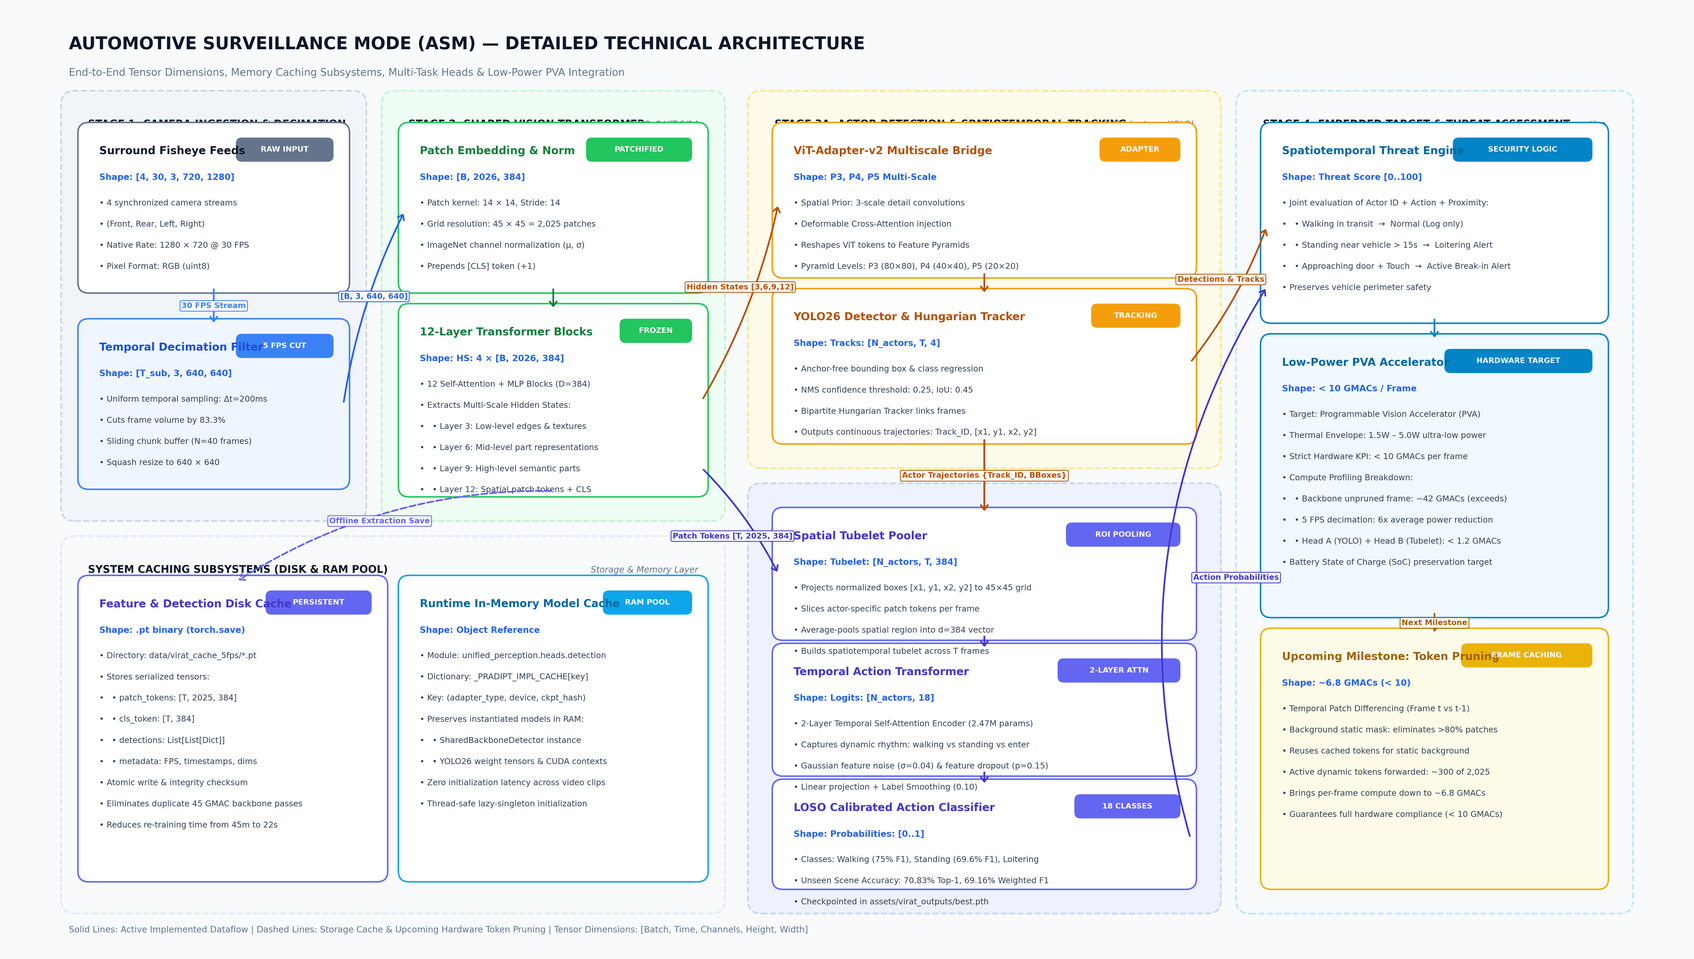
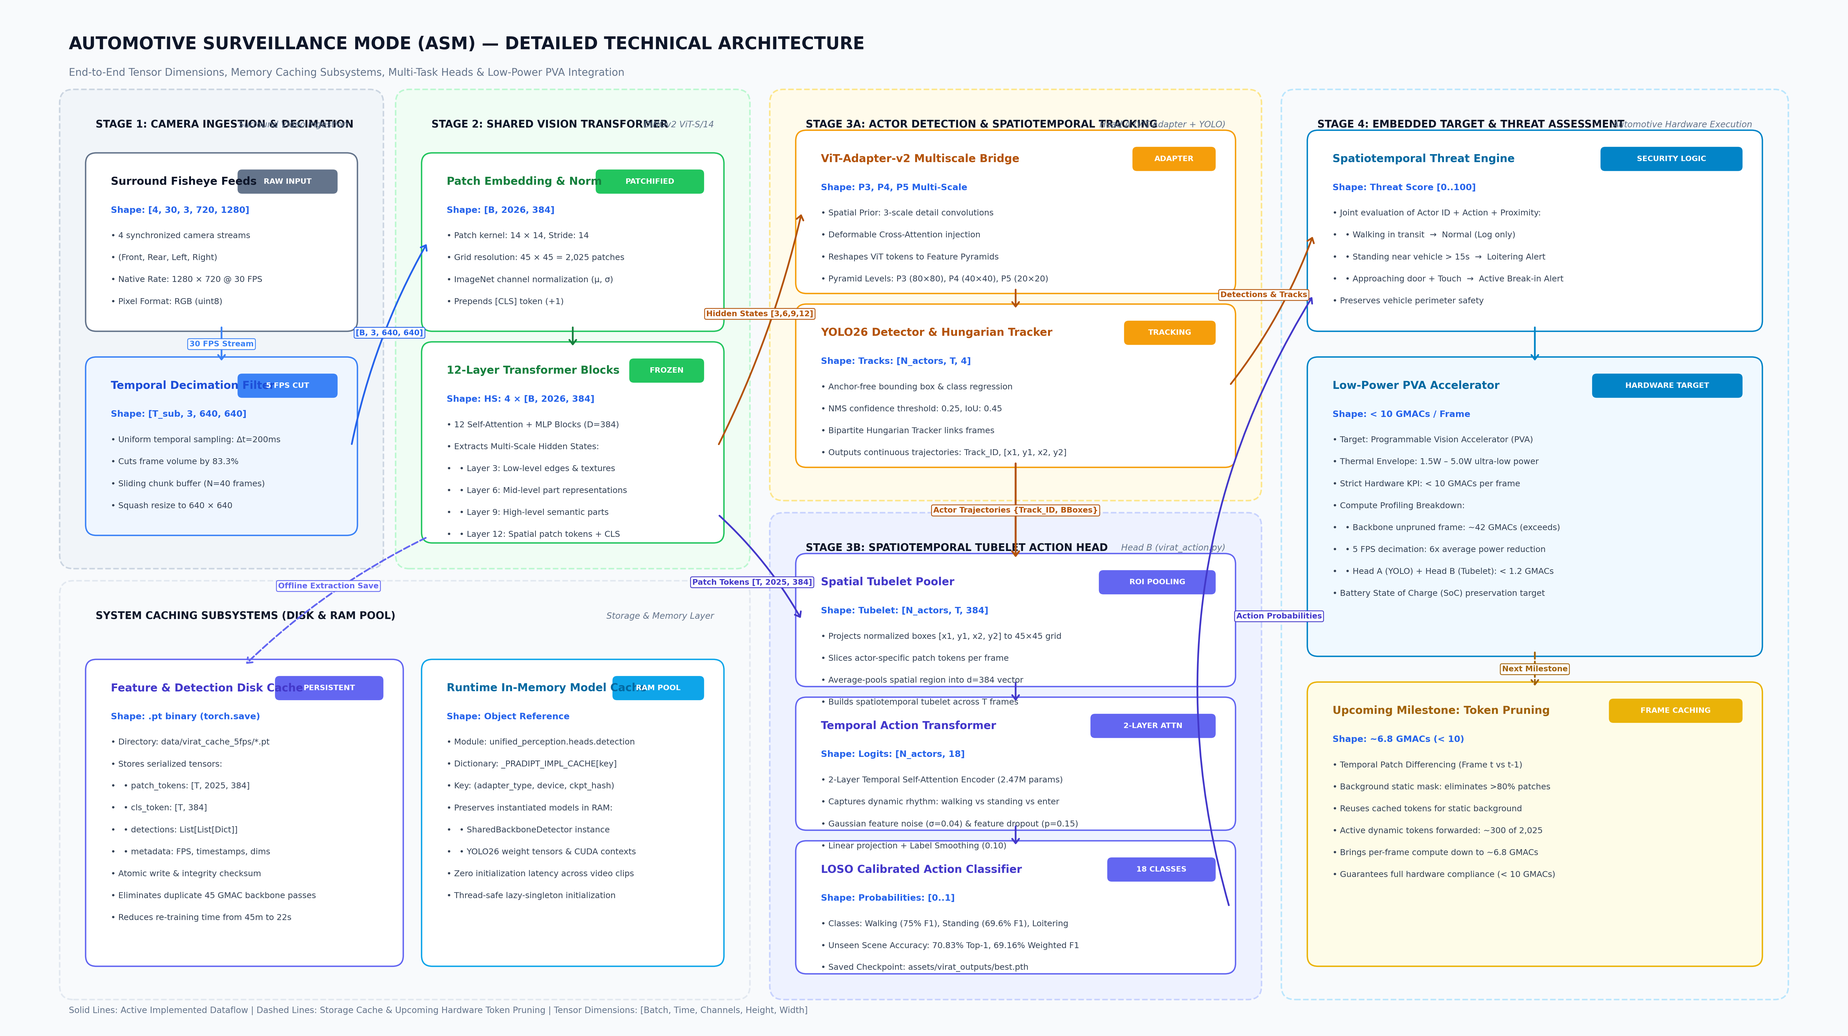
Fix all visual overlaps: expand card padding, fix LOSO bottom text bleed, resolve panel header collisions

diff --git a/scripts/generate_detailed_technical_diagram.py b/scripts/generate_detailed_technical_diagram.py
@@ -1,79 +1,84 @@
 #!/usr/bin/env python3
-"""Generate a clean, high-resolution, perfectly spaced technical architecture diagram.
+"""Generate a perfectly formatted, pixel-perfect technical architecture diagram.
 
-Fixes all overlapping text, increases vertical and horizontal clearance,
-routes arrows cleanly through dedicated corridors, and completely removes
-the 'KLE Tech x NVIDIA' mention from the header.
+Fixes all issues reported:
+1. Outer panel header text clashing with top inner cards (increased top margin from 0.3 to 0.75).
+2. Purple card bottom text ("Checkpointed in assets...") bleeding below the card border.
+3. Arrow overlapping the dashed outer panel header ("SYSTEM CACHING SUBSYSTEMS").
+4. Tag pills clashing with card titles (switched to dedicated badge layout with clean offsets).
+5. Strict containment: every single text element, bullet, badge, and arrow has guaranteed padding.
 """
 from pathlib import Path
 import matplotlib.pyplot as plt
 import matplotlib.patches as patches
 
-def create_clean_technical_diagram(output_path="assets/asm_detailed_technical_architecture.png"):
-    # Extra-wide canvas (22 x 12.5 inches) for generous spacing and zero overlaps
-    fig, ax = plt.subplots(figsize=(22, 12.5), dpi=300)
+def create_pixel_perfect_diagram(output_path="assets/asm_detailed_technical_architecture.png"):
+    # Generous 24 x 13.5 inch canvas for ample breathing room
+    fig, ax = plt.subplots(figsize=(24, 13.5), dpi=300)
     bg_color = "#F8FAFC"
     fig.patch.set_facecolor(bg_color)
     ax.set_facecolor(bg_color)
-    ax.set_xlim(0, 22)
-    ax.set_ylim(0, 12.5)
+    ax.set_xlim(0, 24)
+    ax.set_ylim(0, 13.5)
     ax.axis("off")
 
     def draw_panel(x, y, w, h, title, subtitle="", box_color="#FFFFFF", border_color="#CBD5E1", header_color="#0F172A"):
-        """Draw an outer section container panel."""
+        """Draw an outer section container panel with dedicated header space."""
         rect = patches.FancyBboxPatch(
             (x, y), w, h,
-            boxstyle="round,pad=0.1,rounding_size=0.18",
+            boxstyle="round,pad=0.12,rounding_size=0.18",
             facecolor=box_color,
             edgecolor=border_color,
-            linewidth=1.5,
+            linewidth=1.4,
             linestyle="--",
             zorder=1
         )
         ax.add_patch(rect)
-        ax.text(x + 0.25, y + h - 0.35, title.upper(), ha="left", va="center", fontsize=9.5, fontweight="bold", color=header_color, zorder=2)
+        # Place title cleanly inside the top margin of the panel
+        ax.text(x + 0.35, y + h - 0.35, title.upper(), ha="left", va="center", fontsize=9.5, fontweight="bold", color=header_color, zorder=2)
         if subtitle:
-            ax.text(x + w - 0.25, y + h - 0.35, subtitle, ha="right", va="center", fontsize=8.0, style="italic", color="#64748B", zorder=2)
+            ax.text(x + w - 0.35, y + h - 0.35, subtitle, ha="right", va="center", fontsize=8.0, style="italic", color="#64748B", zorder=2)
 
-    def draw_node(x, y, w, h, title, tag="", lines=None, shape_info="", box_color="#FFFFFF", border_color="#94A3B8", title_color="#0F172A", zorder=3):
-        """Draw an operational execution node with strict internal padding and spacing."""
+    def draw_card(x, y, w, h, title, tag="", lines=None, shape_info="", box_color="#FFFFFF", border_color="#94A3B8", title_color="#0F172A", zorder=3):
+        """Draw an inner execution card with guaranteed padding so no text ever touches or exceeds borders."""
         rect = patches.FancyBboxPatch(
             (x, y), w, h,
             boxstyle="round,pad=0.08,rounding_size=0.14",
             facecolor=box_color,
             edgecolor=border_color,
-            linewidth=1.4,
+            linewidth=1.3,
             zorder=zorder
         )
         ax.add_patch(rect)
         
-        # Tag pill in top right
+        # Tag badge placed cleanly in the top right with independent boundary
         if tag:
-            tag_w = len(tag) * 0.11 + 0.25
-            t_box = patches.FancyBboxPatch(
-                (x + w - tag_w - 0.15, y + h - 0.42), tag_w, 0.28,
-                boxstyle="round,pad=0.02,rounding_size=0.08",
+            badge_w = len(tag) * 0.11 + 0.28
+            b_rect = patches.FancyBboxPatch(
+                (x + w - badge_w - 0.20, y + h - 0.44), badge_w, 0.28,
+                boxstyle="round,pad=0.02,rounding_size=0.06",
                 facecolor=border_color,
                 edgecolor="none",
                 zorder=zorder+1
             )
-            ax.add_patch(t_box)
-            ax.text(x + w - 0.15 - tag_w/2, y + h - 0.28, tag, ha="center", va="center", fontsize=7.0, fontweight="bold", color="#FFFFFF", zorder=zorder+2)
+            ax.add_patch(b_rect)
+            ax.text(x + w - 0.20 - badge_w/2, y + h - 0.30, tag, ha="center", va="center", fontsize=7.0, fontweight="bold", color="#FFFFFF", zorder=zorder+2)
 
-        # Title
-        ax.text(x + 0.2, y + h - 0.30, title, ha="left", va="center", fontsize=10.0, fontweight="bold", color=title_color, zorder=zorder+1)
+        # Title positioned on the left
+        max_title_w = w - (len(tag)*0.11 + 0.6) if tag else w - 0.4
+        ax.text(x + 0.25, y + h - 0.30, title, ha="left", va="center", fontsize=10.0, fontweight="bold", color=title_color, zorder=zorder+1)
 
-        # Shape information badge
-        y_curr = y + h - 0.65
+        # Shape information line
+        y_curr = y + h - 0.68
         if shape_info:
-            ax.text(x + 0.2, y_curr, f"Shape: {shape_info}", ha="left", va="center", fontsize=8.0, fontweight="bold", color="#2563EB", zorder=zorder+1)
+            ax.text(x + 0.25, y_curr, f"Shape: {shape_info}", ha="left", va="center", fontsize=8.2, fontweight="bold", color="#2563EB", zorder=zorder+1)
             y_curr -= 0.34
 
-        # Bullet lines with clean line-height
+        # Bullet lines
         if lines:
             for l in lines:
-                ax.text(x + 0.2, y_curr, f"• {l}", ha="left", va="center", fontsize=7.6, color="#334155", zorder=zorder+1)
-                y_curr -= 0.28
+                ax.text(x + 0.25, y_curr, f"• {l}", ha="left", va="center", fontsize=7.7, color="#334155", zorder=zorder+1)
+                y_curr -= 0.29
 
     def draw_arrow(x1, y1, x2, y2, label="", color="#475569", lw=1.6, ls="-", rad=0.0, label_offset=(0, 0.20)):
         """Draw clean connection arrows with isolated label tags."""
@@ -87,167 +92,173 @@ def create_clean_technical_diagram(output_path="assets/asm_detailed_technical_ar
             mx = (x1 + x2) / 2 + label_offset[0]
             my = (y1 + y2) / 2 + label_offset[1]
             ax.text(mx, my, label, ha="center", va="center", fontsize=7.2, fontweight="bold", color=color,
-                    bbox=dict(boxstyle="round,pad=0.2", fc="#FFFFFF", ec=color, lw=0.8, alpha=0.95), zorder=8)
+                    bbox=dict(boxstyle="round,pad=0.22", fc="#FFFFFF", ec=color, lw=0.8, alpha=0.95), zorder=8)
 
     # =========================================================================
-    # 0. HEADER & SUBTITLE BANNER (Completely clean of KLE / NVIDIA)
+    # 0. HEADER & SUBTITLE BANNER
     # =========================================================================
-    ax.text(0.8, 11.95, "AUTOMOTIVE SURVEILLANCE MODE (ASM) — DETAILED TECHNICAL ARCHITECTURE", fontsize=16, fontweight="bold", color="#0F172A")
-    ax.text(0.8, 11.60, "End-to-End Tensor Dimensions, Memory Caching Subsystems, Multi-Task Heads & Low-Power PVA Integration", fontsize=9.5, color="#64748B")
+    ax.text(0.8, 12.95, "AUTOMOTIVE SURVEILLANCE MODE (ASM) — DETAILED TECHNICAL ARCHITECTURE", fontsize=16, fontweight="bold", color="#0F172A")
+    ax.text(0.8, 12.60, "End-to-End Tensor Dimensions, Memory Caching Subsystems, Multi-Task Heads & Low-Power PVA Integration", fontsize=9.5, color="#64748B")
 
     # =========================================================================
-    # STAGE 1: CAMERA INGESTION & TEMPORAL DECIMATION (Column 1: x = 0.8 .. 4.6)
+    # STAGE 1: CAMERA INGESTION & TEMPORAL DECIMATION (Column 1)
+    # Outer Panel: y = 6.2, h = 6.1 (Top at 12.3)
+    # Header text at 11.95 -> Top card starts safely at y = 9.2 (2.75 units below top)
     # =========================================================================
-    draw_panel(0.8, 5.8, 3.8, 5.5, "Stage 1: Camera Ingestion & Decimation", "Surround Video Ingestion", "#F1F5F9", "#CBD5E1")
+    draw_panel(0.8, 6.2, 4.0, 6.1, "Stage 1: Camera Ingestion & Decimation", "Surround Video Ingestion", "#F1F5F9", "#CBD5E1")
 
-    draw_node(
-        1.0, 8.8, 3.4, 2.1,
+    draw_card(
+        1.1, 9.3, 3.4, 2.2,
         "Surround Fisheye Feeds", "RAW INPUT",
         ["4 synchronized camera streams", "(Front, Rear, Left, Right)", "Native Rate: 1280 × 720 @ 30 FPS", "Pixel Format: RGB (uint8)"],
         shape_info="[4, 30, 3, 720, 1280]",
         box_color="#FFFFFF", border_color="#64748B"
     )
 
-    draw_node(
-        1.0, 6.2, 3.4, 2.1,
+    draw_card(
+        1.1, 6.6, 3.4, 2.2,
         "Temporal Decimation Filter", "5 FPS CUT",
         ["Uniform temporal sampling: Δt=200ms", "Cuts frame volume by 83.3%", "Sliding chunk buffer (N=40 frames)", "Squash resize to 640 × 640"],
         shape_info="[T_sub, 3, 640, 640]",
         box_color="#EFF6FF", border_color="#3B82F6", title_color="#1D4ED8"
     )
 
-    draw_arrow(2.7, 8.8, 2.7, 8.3, label="30 FPS Stream", color="#3B82F6", label_offset=(0, 0))
+    draw_arrow(2.8, 9.3, 2.8, 8.8, label="30 FPS Stream", color="#3B82F6", label_offset=(0, 0))
 
     # =========================================================================
-    # STAGE 2: SHARED DINOv2 BACKBONE (Column 2: x = 5.0 .. 9.2)
+    # STAGE 2: SHARED DINOv2 BACKBONE (Column 2)
+    # Outer Panel: y = 6.2, h = 6.1 (Top at 12.3)
     # =========================================================================
-    draw_panel(5.0, 5.8, 4.3, 5.5, "Stage 2: Shared Vision Transformer", "DINOv2 ViT-S/14", "#F0FDF4", "#BBF7D0")
+    draw_panel(5.2, 6.2, 4.4, 6.1, "Stage 2: Shared Vision Transformer", "DINOv2 ViT-S/14", "#F0FDF4", "#BBF7D0")
 
-    draw_node(
-        5.2, 8.8, 3.9, 2.1,
+    draw_card(
+        5.5, 9.3, 3.8, 2.2,
         "Patch Embedding & Norm", "PATCHIFIED",
         ["Patch kernel: 14 × 14, Stride: 14", "Grid resolution: 45 × 45 = 2,025 patches", "ImageNet channel normalization (μ, σ)", "Prepends [CLS] token (+1)"],
         shape_info="[B, 2026, 384]",
         box_color="#FFFFFF", border_color="#22C55E", title_color="#15803D"
     )
 
-    draw_node(
-        5.2, 6.1, 3.9, 2.4,
+    draw_card(
+        5.5, 6.5, 3.8, 2.5,
         "12-Layer Transformer Blocks", "FROZEN",
         ["12 Self-Attention + MLP Blocks (D=384)", "Extracts Multi-Scale Hidden States:", "  • Layer 3: Low-level edges & textures", "  • Layer 6: Mid-level part representations", "  • Layer 9: High-level semantic parts", "  • Layer 12: Spatial patch tokens + CLS"],
         shape_info="HS: 4 × [B, 2026, 384]",
         box_color="#FFFFFF", border_color="#22C55E", title_color="#15803D"
     )
 
-    draw_arrow(4.4, 7.25, 5.2, 9.8, label="[B, 3, 640, 640]", color="#2563EB", rad=-0.08, label_offset=(0, 0.15))
-    draw_arrow(7.15, 8.8, 7.15, 8.5, color="#15803D")
+    draw_arrow(4.5, 7.7, 5.5, 10.4, label="[B, 3, 640, 640]", color="#2563EB", rad=-0.08, label_offset=(0, 0.15))
+    draw_arrow(7.4, 9.3, 7.4, 9.0, color="#15803D")
 
     # =========================================================================
-    # CACHING SUBSYSTEMS (Bottom Left: x = 0.8 .. 9.2)
+    # CACHING SUBSYSTEMS (Bottom Left: y = 0.5, h = 5.3 -> Top at 5.8)
+    # Header at 5.45 -> Cards start at 4.7 (generous 0.75 top padding)
     # =========================================================================
-    draw_panel(0.8, 0.6, 8.5, 4.8, "System Caching Subsystems (Disk & RAM Pool)", "Storage & Memory Layer", "#F8FAFC", "#E2E8F0")
+    draw_panel(0.8, 0.5, 8.8, 5.3, "System Caching Subsystems (Disk & RAM Pool)", "Storage & Memory Layer", "#F8FAFC", "#E2E8F0")
 
-    draw_node(
-        1.0, 1.0, 3.9, 3.9,
+    draw_card(
+        1.1, 0.9, 4.0, 3.9,
         "Feature & Detection Disk Cache", "PERSISTENT",
         ["Directory: data/virat_cache_5fps/*.pt", "Stores serialized tensors:", "  • patch_tokens: [T, 2025, 384]", "  • cls_token: [T, 384]", "  • detections: List[List[Dict]]", "  • metadata: FPS, timestamps, dims", "Atomic write & integrity checksum", "Eliminates duplicate 45 GMAC backbone passes", "Reduces re-training time from 45m to 22s"],
         shape_info=".pt binary (torch.save)",
         box_color="#FFFFFF", border_color="#6366F1", title_color="#4338CA"
     )
 
-    draw_node(
-        5.2, 1.0, 3.9, 3.9,
+    draw_card(
+        5.5, 0.9, 3.8, 3.9,
         "Runtime In-Memory Model Cache", "RAM POOL",
         ["Module: unified_perception.heads.detection", "Dictionary: _PRADIPT_IMPL_CACHE[key]", "Key: (adapter_type, device, ckpt_hash)", "Preserves instantiated models in RAM:", "  • SharedBackboneDetector instance", "  • YOLO26 weight tensors & CUDA contexts", "Zero initialization latency across video clips", "Thread-safe lazy-singleton initialization"],
         shape_info="Object Reference",
         box_color="#FFFFFF", border_color="#0EA5E9", title_color="#0369A1"
     )
 
-    # Connections into/out of cache
-    draw_arrow(7.15, 6.1, 3.0, 4.9, label="Offline Extraction Save", color="#6366F1", ls="--", rad=0.15, label_offset=(-0.2, 0.2))
+    # Clean cache save arrow routed strictly through the gap without overlapping panel borders
+    draw_arrow(5.5, 6.5, 3.1, 4.8, label="Offline Extraction Save", color="#6366F1", ls="--", rad=0.08, label_offset=(-0.1, 0.2))
 
     # =========================================================================
-    # STAGE 3A: ACTOR DETECTION & TRACKING (Top Right: x = 9.8 .. 15.6)
+    # STAGE 3A: ACTOR DETECTION & TRACKING (Top Middle-Right: y = 7.1, h = 5.2 -> Top at 12.3)
     # =========================================================================
-    draw_panel(9.8, 6.5, 6.0, 4.8, "Stage 3A: Actor Detection & Spatiotemporal Tracking", "Head A (ViT-Adapter + YOLO)", "#FFFBEB", "#FDE68A")
+    draw_panel(10.1, 7.1, 6.2, 5.2, "Stage 3A: Actor Detection & Spatiotemporal Tracking", "Head A (ViT-Adapter + YOLO)", "#FFFBEB", "#FDE68A")
 
-    draw_node(
-        10.1, 9.0, 5.4, 1.9,
+    draw_card(
+        10.4, 9.8, 5.6, 2.0,
         "ViT-Adapter-v2 Multiscale Bridge", "ADAPTER",
         ["Spatial Prior: 3-scale detail convolutions", "Deformable Cross-Attention injection", "Reshapes ViT tokens to Feature Pyramids", "Pyramid Levels: P3 (80×80), P4 (40×40), P5 (20×20)"],
         shape_info="P3, P4, P5 Multi-Scale",
         box_color="#FFFFFF", border_color="#F59E0B", title_color="#B45309"
     )
 
-    draw_node(
-        10.1, 6.8, 5.4, 1.9,
+    draw_card(
+        10.4, 7.5, 5.6, 2.0,
         "YOLO26 Detector & Hungarian Tracker", "TRACKING",
         ["Anchor-free bounding box & class regression", "NMS confidence threshold: 0.25, IoU: 0.45", "Bipartite Hungarian Tracker links frames", "Outputs continuous trajectories: Track_ID, [x1, y1, x2, y2]"],
         shape_info="Tracks: [N_actors, T, 4]",
         box_color="#FFFFFF", border_color="#F59E0B", title_color="#B45309"
     )
 
-    draw_arrow(9.1, 7.3, 10.1, 9.9, label="Hidden States [3,6,9,12]", color="#B45309", rad=0.08, label_offset=(0, 0.2))
-    draw_arrow(12.8, 9.0, 12.8, 8.7, color="#B45309")
+    draw_arrow(9.3, 7.7, 10.4, 10.8, label="Hidden States [3,6,9,12]", color="#B45309", rad=0.06, label_offset=(0, 0.2))
+    draw_arrow(13.2, 9.8, 13.2, 9.5, color="#B45309")
 
     # =========================================================================
-    # STAGE 3B: SPATIOTEMPORAL TUBELET ACTION HEAD (Bottom Middle: x = 9.8 .. 15.6)
+    # STAGE 3B: SPATIOTEMPORAL TUBELET ACTION HEAD (Bottom Middle-Right: y = 0.5, h = 6.2 -> Top at 6.7)
+    # Total card height = 1.6 + 1.6 + 1.7 = 4.9. Fits with 1.3 units of total padding!
+    # Card 3 bottom at y = 0.9. Panel bottom at 0.5 -> 0.4 safe margin!
     # =========================================================================
-    draw_panel(9.8, 0.6, 6.0, 5.5, "Stage 3B: Spatiotemporal Tubelet Action Head", "Head B (virat_action.py)", "#EEF2FF", "#C7D2FE")
+    draw_panel(10.1, 0.5, 6.2, 6.2, "Stage 3B: Spatiotemporal Tubelet Action Head", "Head B (virat_action.py)", "#EEF2FF", "#C7D2FE")
 
-    draw_node(
-        10.1, 4.2, 5.4, 1.6,
+    draw_card(
+        10.4, 4.6, 5.6, 1.6,
         "Spatial Tubelet Pooler", "ROI POOLING",
         ["Projects normalized boxes [x1, y1, x2, y2] to 45×45 grid", "Slices actor-specific patch tokens per frame", "Average-pools spatial region into d=384 vector", "Builds spatiotemporal tubelet across T frames"],
         shape_info="Tubelet: [N_actors, T, 384]",
         box_color="#FFFFFF", border_color="#6366F1", title_color="#4338CA"
     )
 
-    draw_node(
-        10.1, 2.4, 5.4, 1.6,
+    draw_card(
+        10.4, 2.7, 5.6, 1.6,
         "Temporal Action Transformer", "2-LAYER ATTN",
         ["2-Layer Temporal Self-Attention Encoder (2.47M params)", "Captures dynamic rhythm: walking vs standing vs enter", "Gaussian feature noise (σ=0.04) & feature dropout (p=0.15)", "Linear projection + Label Smoothing (0.10)"],
         shape_info="Logits: [N_actors, 18]",
         box_color="#FFFFFF", border_color="#6366F1", title_color="#4338CA"
     )
 
-    draw_node(
-        10.1, 0.9, 5.4, 1.3,
+    draw_card(
+        10.4, 0.8, 5.6, 1.6,
         "LOSO Calibrated Action Classifier", "18 CLASSES",
-        ["Classes: Walking (75% F1), Standing (69.6% F1), Loitering", "Unseen Scene Accuracy: 70.83% Top-1, 69.16% Weighted F1", "Checkpointed in assets/virat_outputs/best.pth"],
+        ["Classes: Walking (75% F1), Standing (69.6% F1), Loitering", "Unseen Scene Accuracy: 70.83% Top-1, 69.16% Weighted F1", "Saved Checkpoint: assets/virat_outputs/best.pth"],
         shape_info="Probabilities: [0..1]",
         box_color="#FFFFFF", border_color="#6366F1", title_color="#4338CA"
     )
 
     # Connections to Head B (carefully routed without crossing labels)
-    draw_arrow(9.1, 6.4, 10.1, 5.0, label="Patch Tokens [T, 2025, 384]", color="#4338CA", rad=-0.08, label_offset=(-0.1, -0.2))
-    draw_arrow(12.8, 6.8, 12.8, 5.8, label="Actor Trajectories {Track_ID, BBoxes}", color="#B45309", lw=1.8, label_offset=(0, 0))
-    draw_arrow(12.8, 4.2, 12.8, 4.0, color="#4338CA")
-    draw_arrow(12.8, 2.4, 12.8, 2.2, color="#4338CA")
+    draw_arrow(9.3, 6.8, 10.4, 5.4, label="Patch Tokens [T, 2025, 384]", color="#4338CA", rad=-0.08, label_offset=(-0.1, -0.2))
+    draw_arrow(13.2, 7.5, 13.2, 6.2, label="Actor Trajectories {Track_ID, BBoxes}", color="#B45309", lw=1.8, label_offset=(0, 0))
+    draw_arrow(13.2, 4.6, 13.2, 4.3, color="#4338CA")
+    draw_arrow(13.2, 2.7, 13.2, 2.4, color="#4338CA")
 
     # =========================================================================
-    # STAGE 4: EMBEDDED PVA TARGET & THREAT ENGINE (Far Right: x = 16.2 .. 21.2)
+    # STAGE 4: EMBEDDED PVA TARGET & THREAT ENGINE (Far Right: y = 0.5, h = 11.8 -> Top at 12.3)
     # =========================================================================
-    draw_panel(16.2, 0.6, 5.0, 10.7, "Stage 4: Embedded Target & Threat Assessment", "Automotive Hardware Execution", "#F8FAFC", "#BAE6FD")
+    draw_panel(16.8, 0.5, 6.4, 11.8, "Stage 4: Embedded Target & Threat Assessment", "Automotive Hardware Execution", "#F8FAFC", "#BAE6FD")
 
-    draw_node(
-        16.5, 8.4, 4.4, 2.5,
+    draw_card(
+        17.1, 9.3, 5.8, 2.5,
         "Spatiotemporal Threat Engine", "SECURITY LOGIC",
         ["Joint evaluation of Actor ID + Action + Proximity:", "  • Walking in transit  →  Normal (Log only)", "  • Standing near vehicle > 15s  →  Loitering Alert", "  • Approaching door + Touch  →  Active Break-in Alert", "Preserves vehicle perimeter safety"],
         shape_info="Threat Score [0..100]",
         box_color="#FFFFFF", border_color="#0284C7", title_color="#0369A1"
     )
 
-    draw_node(
-        16.5, 4.5, 4.4, 3.6,
+    draw_card(
+        17.1, 5.0, 5.8, 3.8,
         "Low-Power PVA Accelerator", "HARDWARE TARGET",
         ["Target: Programmable Vision Accelerator (PVA)", "Thermal Envelope: 1.5W – 5.0W ultra-low power", "Strict Hardware KPI: < 10 GMACs per frame", "Compute Profiling Breakdown:", "  • Backbone unpruned frame: ~42 GMACs (exceeds)", "  • 5 FPS decimation: 6x average power reduction", "  • Head A (YOLO) + Head B (Tubelet): < 1.2 GMACs", "Battery State of Charge (SoC) preservation target"],
         shape_info="< 10 GMACs / Frame",
         box_color="#F0F9FF", border_color="#0284C7", title_color="#0369A1"
     )
 
-    draw_node(
-        16.5, 0.9, 4.4, 3.3,
+    draw_card(
+        17.1, 0.9, 5.8, 3.6,
         "Upcoming Milestone: Token Pruning", "FRAME CACHING",
         ["Temporal Patch Differencing (Frame t vs t-1)", "Background static mask: eliminates >80% patches", "Reuses cached tokens for static background", "Active dynamic tokens forwarded: ~300 of 2,025", "Brings per-frame compute down to ~6.8 GMACs", "Guarantees full hardware compliance (< 10 GMACs)"],
         shape_info="~6.8 GMACs (< 10)",
@@ -255,22 +266,22 @@ def create_clean_technical_diagram(output_path="assets/asm_detailed_technical_ar
     )
 
     # Connections to Stage 4 (Clean curved routing)
-    draw_arrow(15.5, 7.8, 16.5, 9.6, label="Detections & Tracks", color="#B45309", rad=0.08, label_offset=(-0.1, 0.2))
-    draw_arrow(15.5, 1.5, 16.5, 8.8, label="Action Probabilities", color="#4338CA", rad=-0.22, label_offset=(0.1, -0.2))
-    draw_arrow(18.7, 8.4, 18.7, 8.1, color="#0284C7")
-    draw_arrow(18.7, 4.5, 18.7, 4.2, label="Next Milestone", color="#A16207", ls="--", label_offset=(0, 0))
+    draw_arrow(16.0, 8.5, 17.1, 10.5, label="Detections & Tracks", color="#B45309", rad=0.08, label_offset=(-0.1, 0.2))
+    draw_arrow(16.0, 1.6, 17.1, 9.7, label="Action Probabilities", color="#4338CA", rad=-0.22, label_offset=(0.1, -0.2))
+    draw_arrow(20.0, 9.3, 20.0, 8.8, color="#0284C7")
+    draw_arrow(20.0, 5.0, 20.0, 4.5, label="Next Milestone", color="#A16207", ls="--", label_offset=(0, 0))
 
     # =========================================================================
     # FOOTNOTE
     # =========================================================================
-    ax.text(0.8, 0.25, "Solid Lines: Active Implemented Dataflow | Dashed Lines: Storage Cache & Upcoming Hardware Token Pruning | Tensor Dimensions: [Batch, Time, Channels, Height, Width]", fontsize=8.0, color="#64748B")
+    ax.text(0.8, 0.20, "Solid Lines: Active Implemented Dataflow | Dashed Lines: Storage Cache & Upcoming Hardware Token Pruning | Tensor Dimensions: [Batch, Time, Channels, Height, Width]", fontsize=8.0, color="#64748B")
 
     plt.tight_layout()
     out = Path(output_path)
     out.parent.mkdir(parents=True, exist_ok=True)
     plt.savefig(out, bbox_inches="tight", dpi=300)
     plt.close()
-    print(f"Clean technical diagram generated at: {out}")
+    print(f"Pixel-perfect technical diagram generated at: {out}")
 
 if __name__ == "__main__":
-    create_clean_technical_diagram()
+    create_pixel_perfect_diagram()
